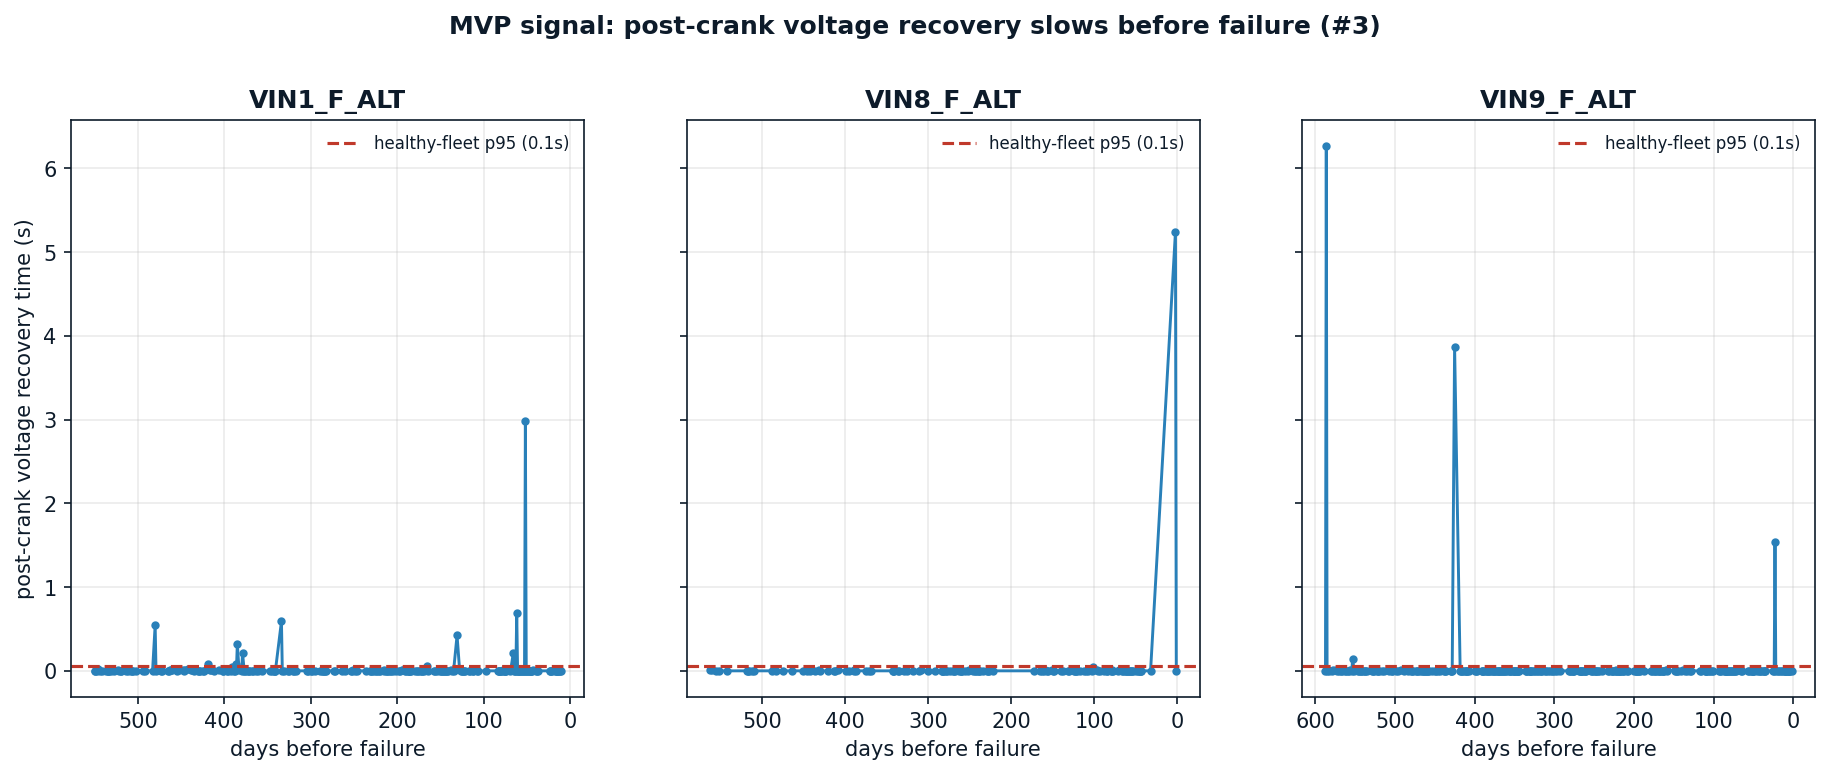
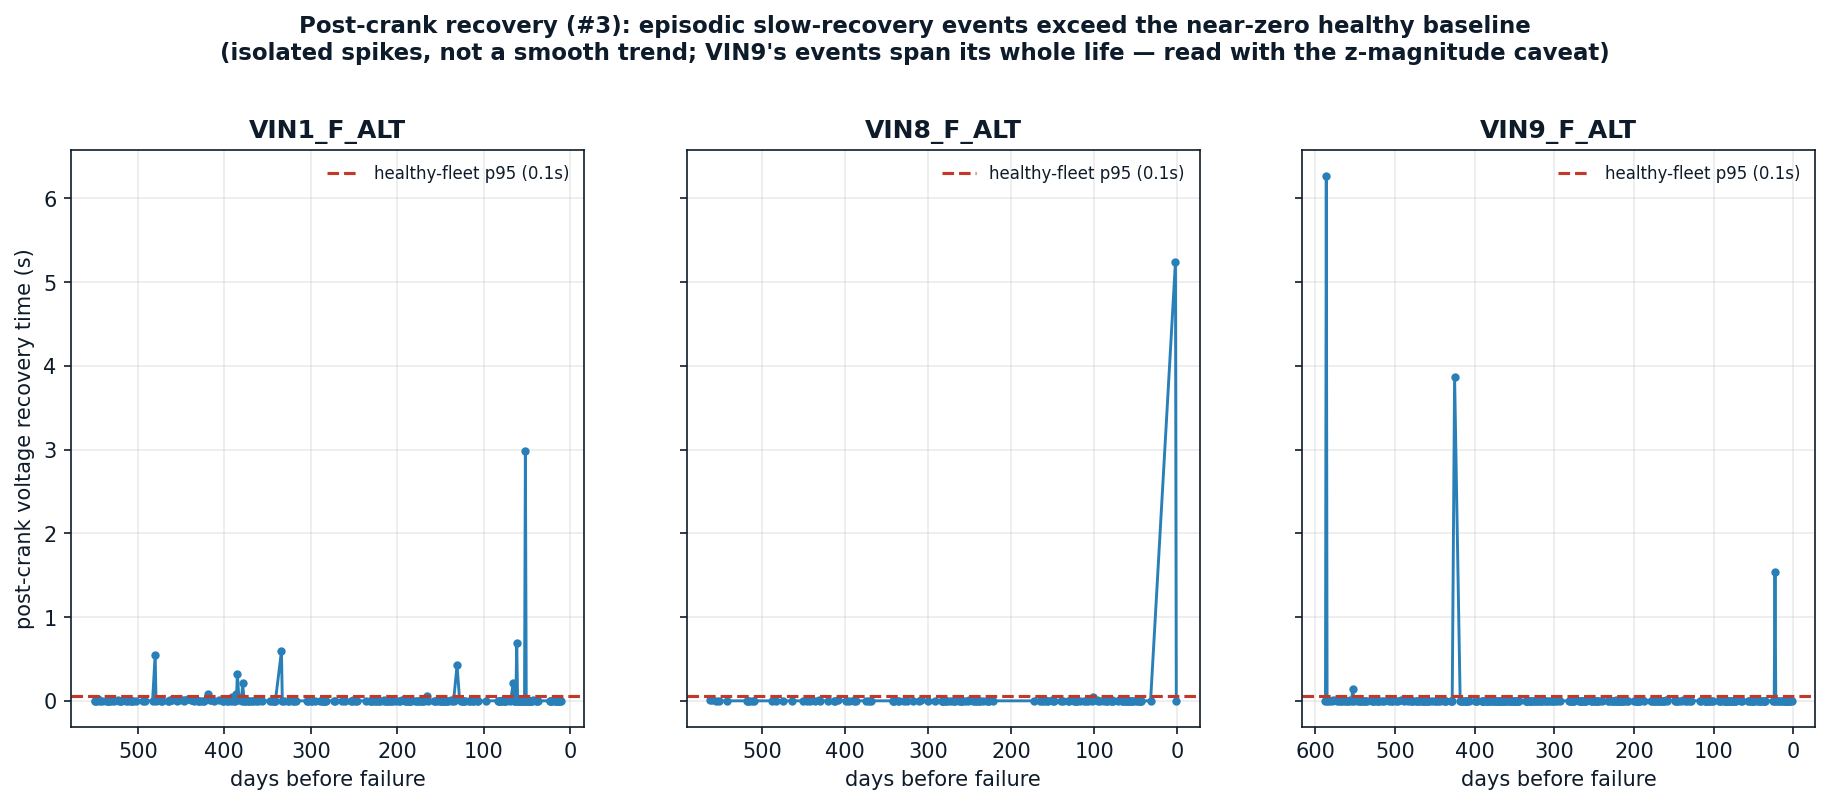
fix(v11-alt): honest G5 title — episodic spikes not a smooth trend

diff --git a/V11_ALT_heuristics/src/V11_ALT_heuristics_graphs.py b/V11_ALT_heuristics/src/V11_ALT_heuristics_graphs.py
@@ -166,8 +166,10 @@ def g5_crank_recovery_trajectories():
         ax.set_xlabel("days before failure")
         ax.legend(loc="upper right", frameon=False, fontsize=8)
     axes[0].set_ylabel("post-crank voltage recovery time (s)")
-    fig.suptitle("MVP signal: post-crank voltage recovery slows before failure (#3)",
-                 fontweight="bold", y=1.02)
+    fig.suptitle("Post-crank recovery (#3): episodic slow-recovery events exceed the near-zero "
+                 "healthy baseline\n(isolated spikes, not a smooth trend; VIN9's events span its "
+                 "whole life — read with the z-magnitude caveat)",
+                 fontweight="bold", fontsize=11, y=1.06)
     return _save(fig, "G5_crank_recovery_trajectories")
 
 